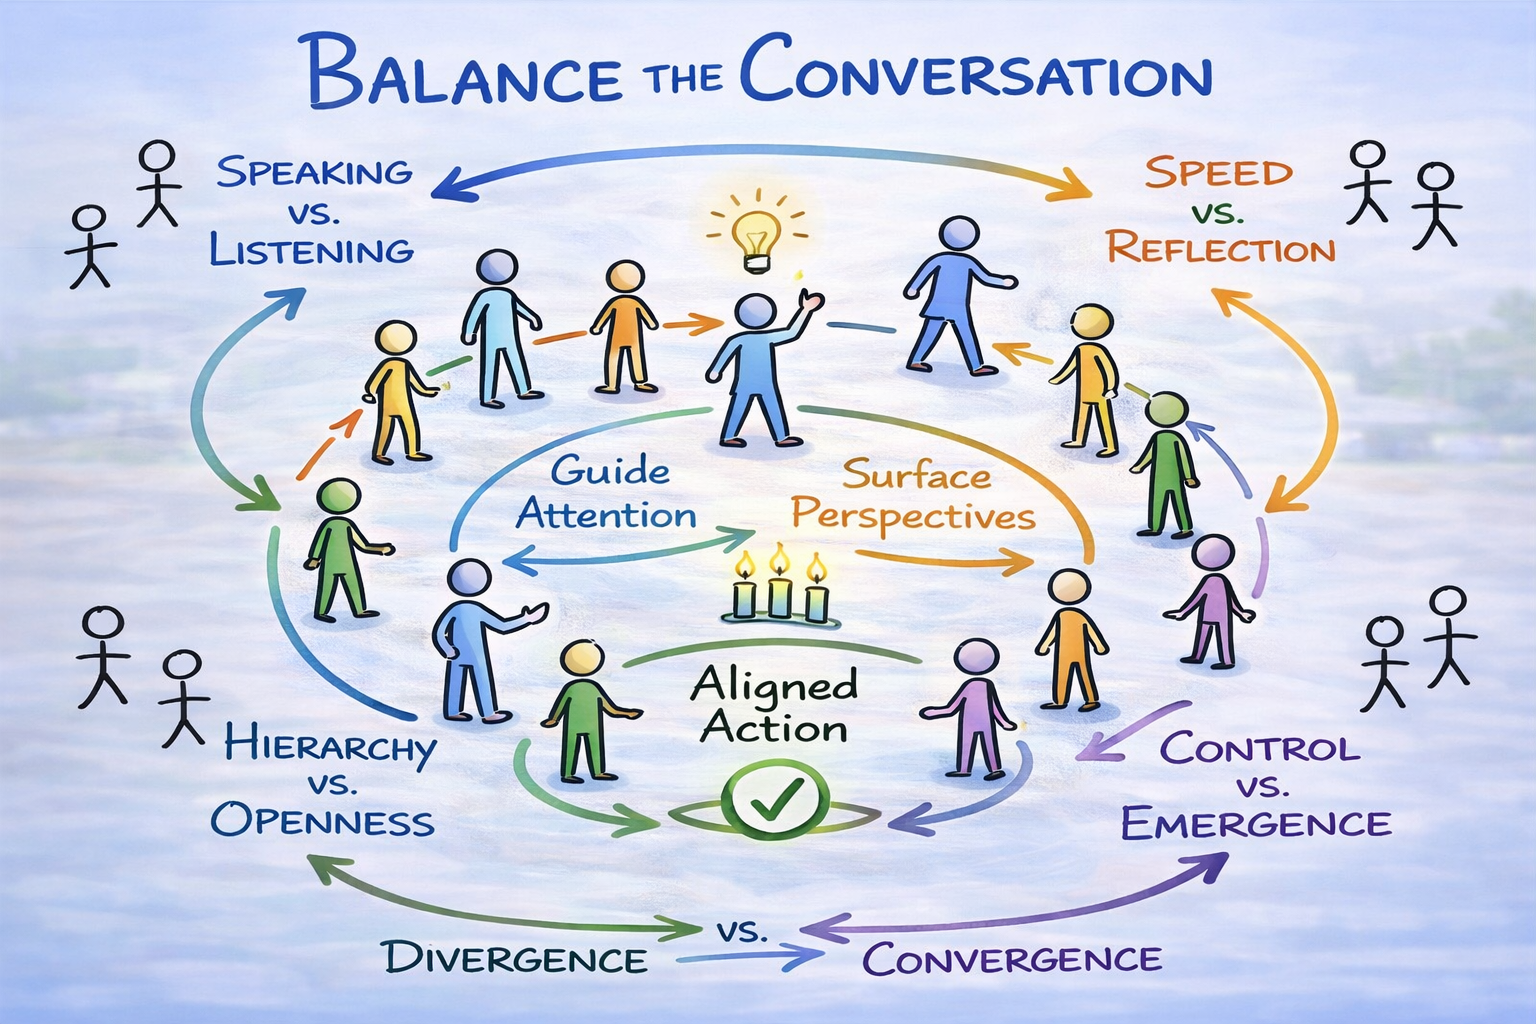
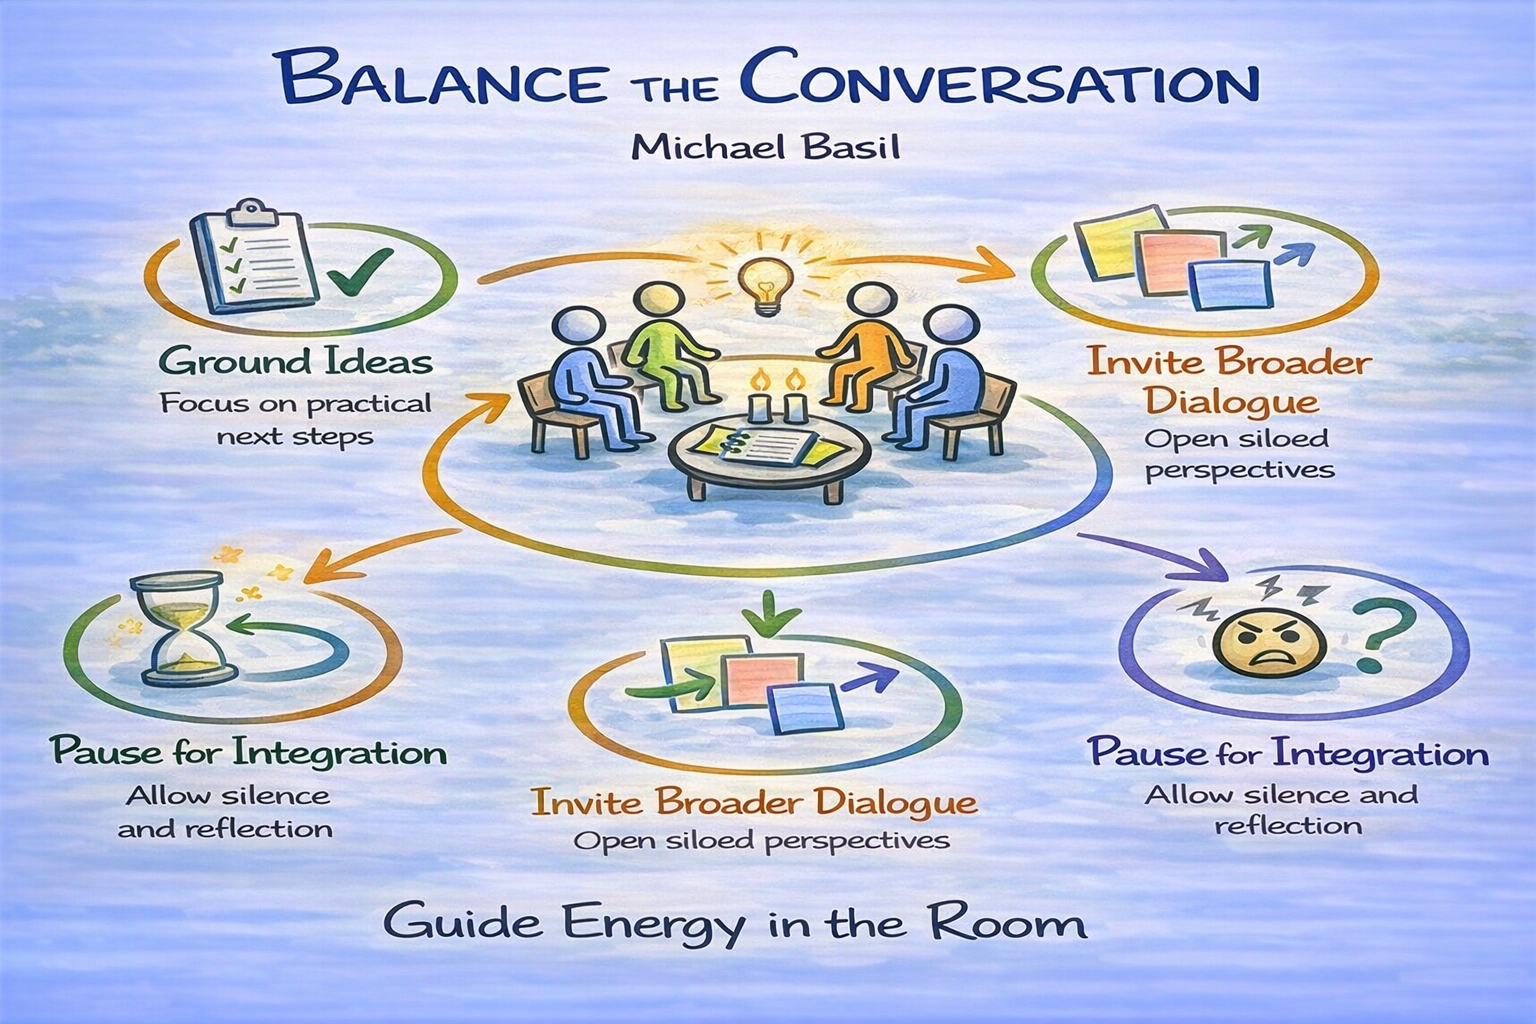
refactor: updated images

diff --git a/moves.md b/moves.md
@@ -8,6 +8,8 @@ css_id: moves
 
 # About the Moves
 
+![About the Moves](/images/moves.png)
+
 These patterns help groups restore balance and move forward when change feels overwhelming, confusing, or scattered. Each move can be used independently, but together they form a simple system for creating clarity, maintaining alignment, and turning insight into action.
 
 *Start where you are—the right move depends on what the group needs most right now.*
